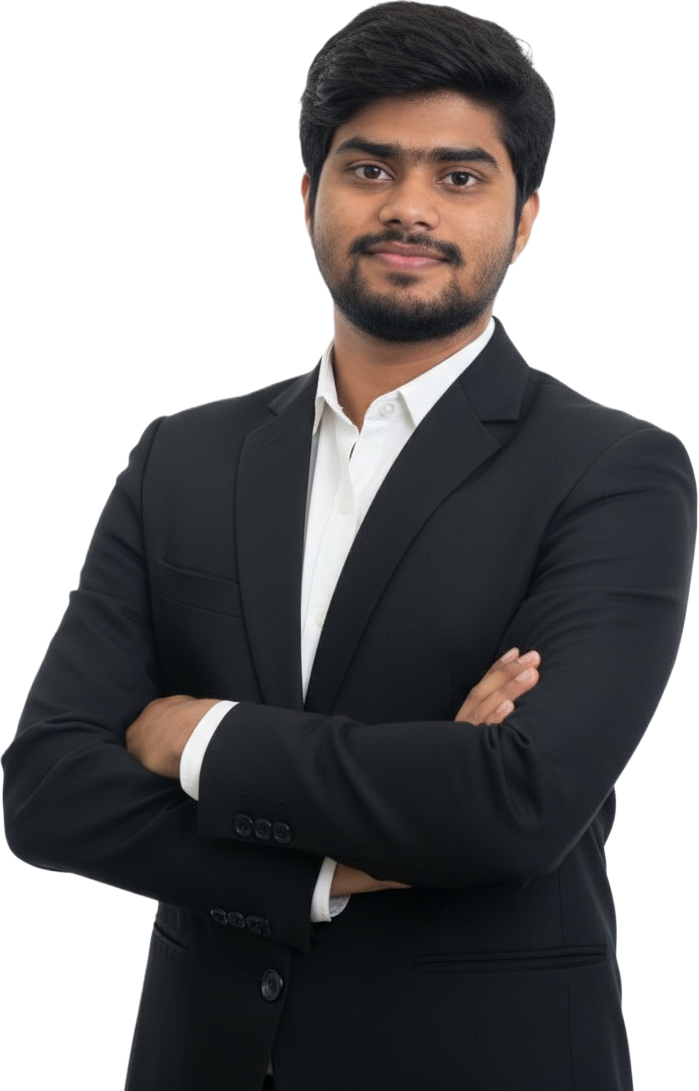
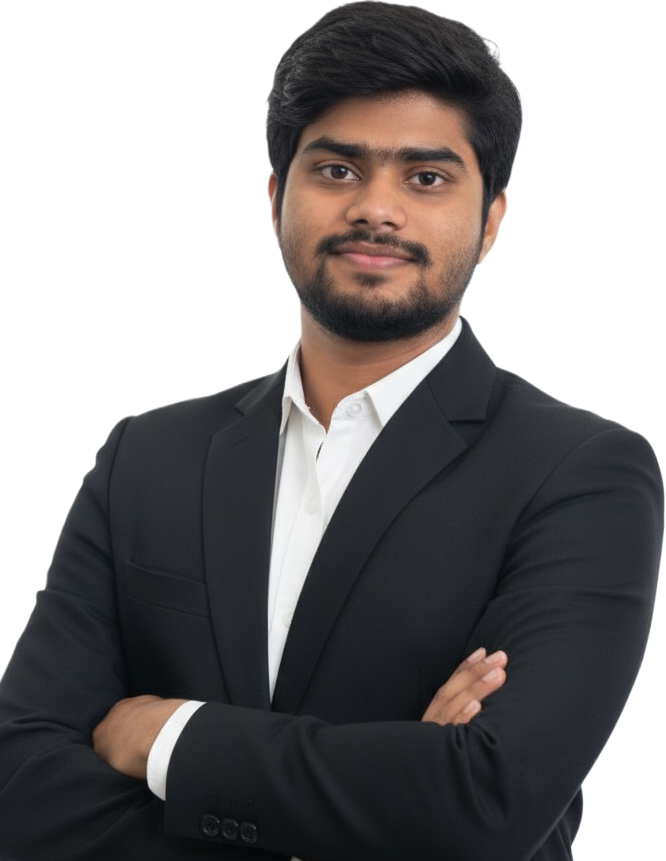
header design according to figma

diff --git a/styles/portfolio.css b/styles/portfolio.css
@@ -12,6 +12,9 @@
 header{
     background-color: #FFF8F3;
     padding-top: 50px;
+    background: url(../images/developer.png),url(../images/header_bg.png),#FFF8F3;
+    background-position: top left , bottom right;
+    background-repeat: no-repeat;
 }
 
 nav{
@@ -25,7 +28,7 @@ nav{
 
 .logo h2{
     font-size: 45px;
-    font-weight: bolder;
+    font-weight: 900;
 }
 
 nav .menu{
@@ -49,9 +52,44 @@ nav .menu a{
     font-weight: bold;
     color: white;
     background-color:#FD6E0A ;
+    cursor: pointer;
 }
 
 .colour-orange{
     color: #FD6E0A;
 }
 
+#banner{
+    margin: 47px 38px 0 230px;
+    display: flex;
+    justify-content: space-between;
+    align-items: center;
+}
+
+.banner-content{
+    max-width: 585px;
+}
+#banner .banner-content h2{
+    font-size: 45px;
+    font-weight: 600;
+    color: #474747;
+    margin-bottom: 5px;
+}
+#banner .banner-content h1{
+    font-size: 85px;
+    font-weight: bold;
+    color: #181818;
+    margin-bottom: 20px;
+}
+
+#banner .banner-content p{
+    font-size: 18px;
+    line-height: 30px;
+    color: #757575;
+    margin-bottom: 30px;
+}
+
+#banner .banner-image img{
+    max-width: 585px;
+    vertical-align: middle;
+}

diff --git a/index.html b/index.html
@@ -23,7 +23,21 @@
         </ul>
         </nav>
 
-    </header>
-    
+        <section id="banner">
+            <div class="banner-content">
+                <h2>Hi, I  am</h2>
+                <h1>Tashfiq Tarif</h1>
+                <p>Shot what able cold new see hold.Friendly as an betrayed formerly he. Morning because as to society behaved moments.</p>
+                <div>
+                    <button class="btn">Download CV</button>
+                    <button class="btn">Contact</button>
+                </div>
+            </div>
+            <div class="banner-image">
+                <img src="images/Tashfiqformal.png" alt="">
+            </div>
+        </section>
+
+    </header>   
 </body>
 </html>
